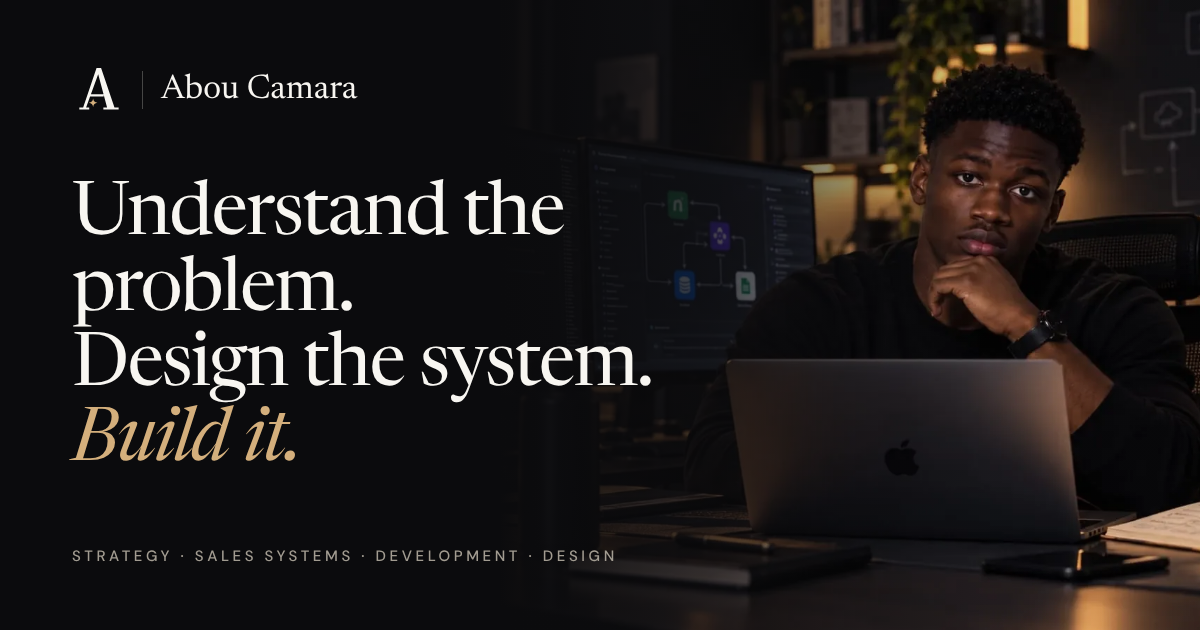
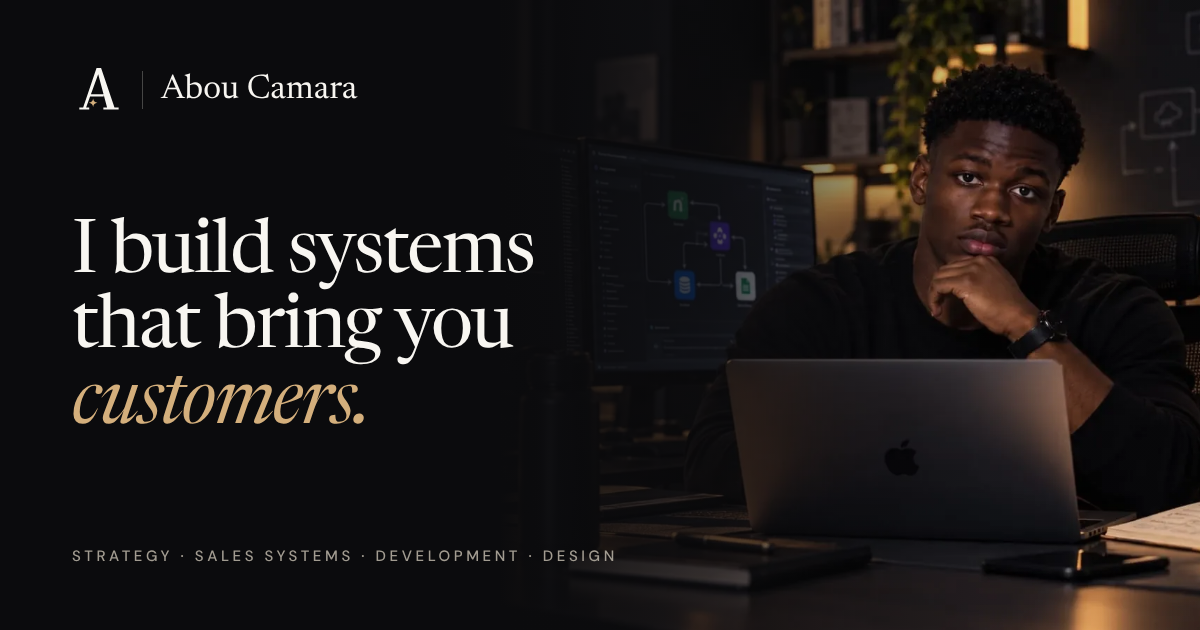
Sharpen positioning and apply review quick wins
- Hero: "I build systems that bring you customers", aimed at small
  businesses and online shops; services intro framed around that result
- Home: Olist removed from selected work (still on the projects page),
  certifications reduced to a one-line band, "still learning sales"
  sentence removed, footer tagline aligned with the hero
- Form: note that budgets in FCFA or MAD are welcome
- YEM'S: shown as built and launching soon; live-site links removed
- New Open Graph image with the new headline

Claude-Session: https://claude.ai/code/session_01TaKQq4ZKFStiEudSF5ioRm

Changed region(s): [[0.0617, 0.2714, 0.555, 0.754]]

diff --git a/index.html b/index.html
@@ -3,21 +3,21 @@
 <head>
 <meta charset="UTF-8">
 <meta name="viewport" content="width=device-width, initial-scale=1">
-<title>Abou Camara | Consultant, builder, developer</title>
-<meta name="description" content="I understand the problem, design the system and build it. Strategy, sales systems, development, automation and product design for founders and small teams.">
+<title>Abou Camara | Systems that bring you customers</title>
+<meta name="description" content="Consultant and developer for small businesses and online shops: a clear offer, a website that sells, and sales systems and automations that turn visitors into customers.">
 <link rel="canonical" href="https://aboucamara.org/">
 <meta property="og:type" content="website">
 <meta property="og:url" content="https://aboucamara.org/">
-<meta property="og:title" content="Abou Camara | Consultant, builder, developer">
-<meta property="og:description" content="I understand the problem, design the system and build it. Strategy, sales systems, development, automation and product design for founders and small teams.">
+<meta property="og:title" content="Abou Camara | Systems that bring you customers">
+<meta property="og:description" content="Consultant and developer for small businesses and online shops: a clear offer, a website that sells, and sales systems and automations that turn visitors into customers.">
 <meta property="og:image" content="https://aboucamara.org/og-image.png">
 <meta property="og:image:width" content="1200">
 <meta property="og:image:height" content="630">
 <meta property="og:locale" content="en_GB">
 <meta property="og:site_name" content="Abou Camara">
 <meta name="twitter:card" content="summary_large_image">
-<meta name="twitter:title" content="Abou Camara | Consultant, builder, developer">
-<meta name="twitter:description" content="I understand the problem, design the system and build it. Strategy, sales systems, development, automation and product design for founders and small teams.">
+<meta name="twitter:title" content="Abou Camara | Systems that bring you customers">
+<meta name="twitter:description" content="Consultant and developer for small businesses and online shops: a clear offer, a website that sells, and sales systems and automations that turn visitors into customers.">
 <meta name="twitter:image" content="https://aboucamara.org/og-image.png">
 <meta name="theme-color" content="#0B0B0D">
 <meta name="color-scheme" content="dark">
@@ -86,13 +86,12 @@
   </div>
   <div class="wrap hero-inner">
     <div class="hero-copy">
-      <p class="eyebrow fade-up">Independent consultant &amp; builder</p>
+      <p class="eyebrow fade-up">For small businesses &amp; online shops</p>
       <h1 class="display lines">
-        <span class="ln"><span>Understand the problem.</span></span>
-        <span class="ln"><span>Design the system.</span></span>
-        <span class="ln"><span><em>Build it.</em></span></span>
+        <span class="ln"><span>I build systems</span></span>
+        <span class="ln"><span>that bring you <em>customers.</em></span></span>
       </h1>
-      <p class="lead fade-up d1">I'm Abou, a consultant and developer based in Fès. I help founders and small teams work out what's holding them back, and then I build the fix myself: the website, the sales process, the automation, the interface.</p>
+      <p class="lead fade-up d1">I'm Abou, a consultant and developer. I help small businesses and online shops turn more visitors into customers: a clear offer, a website people understand, and automations that follow up every lead for you.</p>
       <div class="actions fade-up d2">
         <a href="#contact" class="btn btn-gold">Work together <svg class="arrow" viewBox="0 0 24 24" fill="none" stroke="currentColor" stroke-width="1.8" stroke-linecap="round" stroke-linejoin="round" aria-hidden="true"><path d="M5 12h14M13 6l6 6-6 6"/></svg></a>
         <a href="work.html" class="btn btn-ghost">See the projects</a>
@@ -110,7 +109,7 @@
         <p class="eyebrow rv">What I do</p>
         <h2 class="h2 rv">Four disciplines. <em>One system.</em></h2>
       </div>
-      <p class="lead rv">In small businesses, things tend to get stuck between people. The marketing plan never turns into a tool, or the website never gets connected to how sales happen. I work on all four parts, so I can see where those gaps are and close them myself.</p>
+      <p class="lead rv">More customers usually depends on four things working together: a clear offer, a site people understand, a way to follow up every lead, and tools that take care of the repetitive work. I handle all four, so nothing falls between them.</p>
     </div>
 
     <div class="thread rv" aria-hidden="true"><i></i><i></i><i></i><i></i></div>
@@ -177,7 +176,7 @@
         <p class="eyebrow rv">Selected work</p>
         <h2 class="h2 rv">What I&rsquo;ve <em>built so far.</em></h2>
       </div>
-      <p class="lead rv">Four projects, from a student guidance app to an online shop in Cotonou. Most are finished, one is still in progress, and each page tells you where it stands.</p>
+      <p class="lead rv">A student guidance app, an online shop and a lead scoring automation. Each page tells you what the problem was and where the project stands today.</p>
     </div>
 
     <div class="work-rows">
@@ -210,7 +209,6 @@
           <div class="chips"><span class="chip">HTML / CSS / JS</span><span class="chip">Python</span><span class="chip">Cloudflare Workers</span><span class="chip">PostgreSQL</span></div>
           <div class="work-links">
             <a class="link" href="project-yems.html">Case study <svg class="arrow" viewBox="0 0 24 24" fill="none" stroke="currentColor" stroke-width="1.8" stroke-linecap="round" stroke-linejoin="round" aria-hidden="true"><path d="M5 12h14M13 6l6 6-6 6"/></svg></a>
-            <a class="link" href="https://maisonyems.com" target="_blank" rel="noopener">Live site <svg class="out" viewBox="0 0 24 24" fill="none" stroke="currentColor" stroke-width="1.8" stroke-linecap="round" stroke-linejoin="round" aria-hidden="true"><path d="M7 17L17 7M8 7h9v9"/></svg></a>
             <a class="link" href="https://github.com/abou-arch/Site_ecommerce_Yem-s" target="_blank" rel="noopener">Source code <svg class="out" viewBox="0 0 24 24" fill="none" stroke="currentColor" stroke-width="1.8" stroke-linecap="round" stroke-linejoin="round" aria-hidden="true"><path d="M7 17L17 7M8 7h9v9"/></svg></a>
           </div>
         </div>
@@ -242,23 +240,6 @@
           </div>
         </div>
       </article>
-
-      <article class="work-row">
-        <a class="work-media rv" href="project-olist.html" tabindex="-1" aria-hidden="true">
-          <span class="badge"><i></i>In progress</span>
-          <img src="images/work/olist-1200.webp" srcset="images/work/olist-640.webp 640w, images/work/olist-1200.webp 1200w" sizes="(min-width: 960px) 720px, 100vw" alt="" width="1200" height="685" loading="lazy" decoding="async">
-        </a>
-        <div class="work-text rv">
-          <div class="meta"><span class="idx">04</span><span class="label">Data · Analysis</span></div>
-          <h3><a href="project-olist.html">Olist E-commerce Dashboard</a></h3>
-          <p class="sub">Analysis of the public Olist dataset</p>
-          <p>Still in progress: an analysis of sales, delivery times and customer reviews, to see where an online store loses money. I'll write it up once I'm confident in the numbers.</p>
-          <div class="chips"><span class="chip">Python</span><span class="chip">Pandas</span><span class="chip">SQL</span><span class="chip">Streamlit</span></div>
-          <div class="work-links">
-            <a class="link" href="project-olist.html">Project notes <svg class="arrow" viewBox="0 0 24 24" fill="none" stroke="currentColor" stroke-width="1.8" stroke-linecap="round" stroke-linejoin="round" aria-hidden="true"><path d="M5 12h14M13 6l6 6-6 6"/></svg></a>
-          </div>
-        </div>
-      </article>
     </div>
 
     <div style="margin-top:clamp(56px,7vw,88px);display:flex;justify-content:center" class="rv">
@@ -279,7 +260,7 @@
     <div class="about-txt">
       <p class="rv">I'm <strong>Abou Camara</strong>. I work on my own from Fès, Morocco, with founders and small teams in Europe and West Africa. If we work together, you deal with me directly, from the first call to the handover.</p>
       <p class="rv">I studied <strong>Big Data engineering</strong>, so I can build what I recommend. Over time I noticed that the code was rarely what held a project back. More often, the people who understood the customers and the people building the tools just weren't talking to each other.</p>
-      <p class="rv">So that's how I work. I write the positioning, design the funnel, code the automation behind it, and document it so you can run it without me. I'm also still learning the sales side properly, through a structured remote-sales and copywriting programme.</p>
+      <p class="rv">So that's how I work. I write the positioning, design the funnel, code the automation behind it, and document it so you can run it without me.</p>
       <p class="rv">What I want to build are systems a small business can run day to day, that don't promise more than they do, and that save people time.</p>
       <ul class="facts rv">
         <li><small>Based in</small><b>Fès, Morocco · remote-first</b></li>
@@ -312,23 +293,12 @@
 </section>
 
 <!-- ═════════ CERTIFICATIONS ═════════ -->
-<section id="credentials" style="padding-top:0">
-  <div class="wrap creds">
-    <div>
-      <p class="eyebrow rv">Proof of training</p>
-      <h2 class="h2 rv">Certifications.</h2>
-      <p class="lead rv">Programming, data analysis, software architecture and leadership. You can open each certificate as the original document, with its reference number.</p>
-      <a href="certificates.html" class="btn btn-ghost rv">View the certifications <svg class="arrow" viewBox="0 0 24 24" fill="none" stroke="currentColor" stroke-width="1.8" stroke-linecap="round" stroke-linejoin="round" aria-hidden="true"><path d="M5 12h14M13 6l6 6-6 6"/></svg></a>
+<section id="credentials" class="section-tight" style="padding-top:0">
+  <div class="wrap">
+    <div class="cred-band rv">
+      <p><span class="label">Training</span>Programming, data analysis, software architecture and leadership, with the original certificates.</p>
+      <a href="certificates.html" class="link">See the certifications <svg class="arrow" viewBox="0 0 24 24" fill="none" stroke="currentColor" stroke-width="1.8" stroke-linecap="round" stroke-linejoin="round" aria-hidden="true"><path d="M5 12h14M13 6l6 6-6 6"/></svg></a>
     </div>
-    <ul class="cred-list rv">
-      <li><b>Python for Data Analysis</b><span>OpenClassrooms</span></li>
-      <li><b>Domain-Driven Design</b><span>OpenClassrooms</span></li>
-      <li><b>Object-Oriented Programming with Python</b><span>OpenClassrooms</span></li>
-      <li><b>Python Fundamentals</b><span>OpenClassrooms</span></li>
-      <li><b>C++ Programming</b><span>OpenClassrooms</span></li>
-      <li><b>Leadership Development Experience</b><span>AIESEC</span></li>
-      <li><b>Global Volunteering Program</b><span>AIESEC</span></li>
-    </ul>
   </div>
 </section>
 
@@ -402,6 +372,7 @@
             <option>Over €10,000</option>
             <option selected>To define together</option>
           </select>
+          <small class="field-hint">In euros. Budgets in FCFA or MAD are welcome too.</small>
         </div>
       </div>
       <div class="field">
@@ -421,7 +392,7 @@
     <div class="foot">
       <div>
         <a href="#top" class="brand" aria-label="Abou Camara, home"><svg class="mark" viewBox="0 0 64 64" aria-hidden="true"><path fill="currentColor" d="M30.2 5L33 10.6L16.8 55H13.2ZM30.2 5H35.8L52.8 55H43.6ZM22.9 37.2H39V40H21.9ZM9 53.6H21.2V56H9ZM38.6 53.6H57.4V56H38.6Z"/><path class="star" d="M26 42.4Q26.6 47.1 31.3 47.7Q26.6 48.3 26 53Q25.4 48.3 20.7 47.7Q25.4 47.1 26 42.4Z"/></svg><span class="rule" aria-hidden="true"></span><span class="name">Abou Camara</span></a>
-        <p class="tagline">Build · Automate · Create</p>
+        <p class="tagline">Systems that bring you customers</p>
       </div>
       <nav class="foot-nav" aria-label="Footer">
         <a href="#services">Services</a>

diff --git a/project-yems.html b/project-yems.html
@@ -82,8 +82,8 @@
       <p class="standfirst rv">A shoe house in Cotonou, and an online shop <em>made for how people buy there.</em></p>
       <p class="lead rv">Yem's sells shoes and leather goods in Benin and Côte d'Ivoire. I designed and built the whole site: identity, copy, catalogue, a bespoke configurator, an ordering flow that takes no payment upfront, and an admin screen for the workshop.</p>
       <div class="actions rv">
-        <a href="https://maisonyems.com" target="_blank" rel="noopener" class="btn btn-gold">Visit maisonyems.com <svg class="out" viewBox="0 0 24 24" fill="none" stroke="currentColor" stroke-width="1.8" stroke-linecap="round" stroke-linejoin="round" aria-hidden="true"><path d="M7 17L17 7M8 7h9v9"/></svg></a>
-        <a href="https://github.com/abou-arch/Site_ecommerce_Yem-s" target="_blank" rel="noopener" class="btn btn-ghost">Source code <svg viewBox="0 0 24 24" fill="currentColor" aria-hidden="true"><path d="M12 2C6.48 2 2 6.48 2 12c0 4.42 2.87 8.17 6.84 9.5.5.09.68-.22.68-.48v-1.7c-2.78.6-3.37-1.34-3.37-1.34-.45-1.16-1.11-1.47-1.11-1.47-.91-.62.07-.6.07-.6 1 .07 1.53 1.03 1.53 1.03.9 1.53 2.34 1.09 2.91.83.09-.65.35-1.09.63-1.34-2.22-.25-4.55-1.11-4.55-4.94 0-1.09.39-1.98 1.03-2.68-.1-.25-.45-1.27.1-2.64 0 0 .84-.27 2.75 1.02a9.6 9.6 0 015 0c1.91-1.29 2.75-1.02 2.75-1.02.55 1.37.2 2.39.1 2.64.64.7 1.03 1.59 1.03 2.68 0 3.84-2.34 4.69-4.57 4.94.36.31.68.92.68 1.85v2.74c0 .27.18.58.69.48A10 10 0 0022 12c0-5.52-4.48-10-10-10z"/></svg></a>
+        <a href="https://github.com/abou-arch/Site_ecommerce_Yem-s" target="_blank" rel="noopener" class="btn btn-gold">Source code <svg viewBox="0 0 24 24" fill="currentColor" aria-hidden="true"><path d="M12 2C6.48 2 2 6.48 2 12c0 4.42 2.87 8.17 6.84 9.5.5.09.68-.22.68-.48v-1.7c-2.78.6-3.37-1.34-3.37-1.34-.45-1.16-1.11-1.47-1.11-1.47-.91-.62.07-.6.07-.6 1 .07 1.53 1.03 1.53 1.03.9 1.53 2.34 1.09 2.91.83.09-.65.35-1.09.63-1.34-2.22-.25-4.55-1.11-4.55-4.94 0-1.09.39-1.98 1.03-2.68-.1-.25-.45-1.27.1-2.64 0 0 .84-.27 2.75 1.02a9.6 9.6 0 015 0c1.91-1.29 2.75-1.02 2.75-1.02.55 1.37.2 2.39.1 2.64.64.7 1.03 1.59 1.03 2.68 0 3.84-2.34 4.69-4.57 4.94.36.31.68.92.68 1.85v2.74c0 .27.18.58.69.48A10 10 0 0022 12c0-5.52-4.48-10-10-10z"/></svg></a>
+        <a href="#visuals" class="btn btn-ghost">See the screens</a>
       </div>
     </div>
     <figure class="shot rv">
@@ -158,8 +158,8 @@
       <div class="chapter rv">
         <p class="ch-label"><span>05</span>Real outcome</p>
         <div>
-          <h2>What exists today.</h2>
-          <p>The site is live at <a href="https://maisonyems.com" target="_blank" rel="noopener" style="color:var(--gold);border-bottom:1px solid rgba(212,175,124,.4)">maisonyems.com</a>: a complete, documented e-commerce site with 23 generated pages, a working configurator, an ordering flow, an admin, legal pages, and a step-by-step deployment guide written for the owner.</p>
+          <h2>Where it stands.</h2>
+          <p>The site is built and documented, and the shop hasn't launched yet. It has 23 generated pages, a working configurator, an ordering flow, an admin, legal pages, and a step-by-step deployment guide written for the owner.</p>
           <p class="honest"><b>What I can't show you.</b> I don't have visit or sales figures to share: the site runs no analytics, on purpose, and online payment isn't switched on yet. The product photos on the shop are AI-generated, and the site says so.</p>
         </div>
       </div>
@@ -193,8 +193,8 @@
         <div><dt>Role</dt><dd>Brand, copywriting, design, front-end and back-end development</dd></div>
         <div><dt>Technologies</dt><dd><div class="chips"><span class="chip">HTML</span><span class="chip">CSS</span><span class="chip">JavaScript</span><span class="chip">Python</span><span class="chip">Cloudflare Workers</span><span class="chip">PostgreSQL</span></div></dd></div>
         <div><dt>Market</dt><dd>Benin and Côte d'Ivoire</dd></div>
-        <div><dt>Status</dt><dd>Live · online payment not switched on yet</dd></div>
-        <div><dt>Links</dt><dd><a href="https://maisonyems.com" target="_blank" rel="noopener">maisonyems.com</a> · <a href="https://github.com/abou-arch/Site_ecommerce_Yem-s" target="_blank" rel="noopener">Source code</a></dd></div>
+        <div><dt>Status</dt><dd>Built · launching soon</dd></div>
+        <div><dt>Source</dt><dd><a href="https://github.com/abou-arch/Site_ecommerce_Yem-s" target="_blank" rel="noopener">Source code on GitHub</a></dd></div>
       </dl>
     </aside>
   </div>
@@ -221,7 +221,7 @@
     <div class="foot">
       <div>
         <a href="index.html" class="brand" aria-label="Abou Camara, home"><svg class="mark" viewBox="0 0 64 64" aria-hidden="true"><path fill="currentColor" d="M30.2 5L33 10.6L16.8 55H13.2ZM30.2 5H35.8L52.8 55H43.6ZM22.9 37.2H39V40H21.9ZM9 53.6H21.2V56H9ZM38.6 53.6H57.4V56H38.6Z"/><path class="star" d="M26 42.4Q26.6 47.1 31.3 47.7Q26.6 48.3 26 53Q25.4 48.3 20.7 47.7Q25.4 47.1 26 42.4Z"/></svg><span class="rule" aria-hidden="true"></span><span class="name">Abou Camara</span></a>
-        <p class="tagline">Build · Automate · Create</p>
+        <p class="tagline">Systems that bring you customers</p>
       </div>
       <nav class="foot-nav" aria-label="Footer">
         <a href="index.html#services">Services</a>

diff --git a/work.html b/work.html
@@ -122,12 +122,11 @@
         <div class="wcard-body">
           <p class="label" style="margin-bottom:12px">E-commerce · Brand · Full-stack</p>
           <h2><a href="project-yems.html">YEM&rsquo;S <svg class="out" viewBox="0 0 24 24" fill="none" stroke="currentColor" stroke-width="1.8" stroke-linecap="round" stroke-linejoin="round" aria-hidden="true"><path d="M7 17L17 7M8 7h9v9"/></svg></a></h2>
-          <p class="sub">Shoe and leather-goods house, Cotonou · live</p>
+          <p class="sub">Shoe and leather-goods house, Cotonou · launching soon</p>
           <p>An online shop built from scratch, with a made-to-measure configurator, a pay-on-delivery checkout and an admin screen for the workshop.</p>
           <div class="chips"><span class="chip">HTML / CSS / JS</span><span class="chip">Python</span><span class="chip">Cloudflare Workers</span><span class="chip">PostgreSQL</span></div>
           <div class="work-links">
             <a class="link" href="project-yems.html">Case study <svg class="arrow" viewBox="0 0 24 24" fill="none" stroke="currentColor" stroke-width="1.8" stroke-linecap="round" stroke-linejoin="round" aria-hidden="true"><path d="M5 12h14M13 6l6 6-6 6"/></svg></a>
-            <a class="link" href="https://maisonyems.com" target="_blank" rel="noopener">Live site <svg class="out" viewBox="0 0 24 24" fill="none" stroke="currentColor" stroke-width="1.8" stroke-linecap="round" stroke-linejoin="round" aria-hidden="true"><path d="M7 17L17 7M8 7h9v9"/></svg></a>
             <a class="link" href="https://github.com/abou-arch/Site_ecommerce_Yem-s" target="_blank" rel="noopener">Source code <svg class="out" viewBox="0 0 24 24" fill="none" stroke="currentColor" stroke-width="1.8" stroke-linecap="round" stroke-linejoin="round" aria-hidden="true"><path d="M7 17L17 7M8 7h9v9"/></svg></a>
           </div>
         </div>
@@ -202,7 +201,7 @@
     <div class="foot">
       <div>
         <a href="index.html" class="brand" aria-label="Abou Camara, home"><svg class="mark" viewBox="0 0 64 64" aria-hidden="true"><path fill="currentColor" d="M30.2 5L33 10.6L16.8 55H13.2ZM30.2 5H35.8L52.8 55H43.6ZM22.9 37.2H39V40H21.9ZM9 53.6H21.2V56H9ZM38.6 53.6H57.4V56H38.6Z"/><path class="star" d="M26 42.4Q26.6 47.1 31.3 47.7Q26.6 48.3 26 53Q25.4 48.3 20.7 47.7Q25.4 47.1 26 42.4Z"/></svg><span class="rule" aria-hidden="true"></span><span class="name">Abou Camara</span></a>
-        <p class="tagline">Build · Automate · Create</p>
+        <p class="tagline">Systems that bring you customers</p>
       </div>
       <nav class="foot-nav" aria-label="Footer">
         <a href="index.html#services">Services</a>

diff --git a/style.css b/style.css
@@ -467,6 +467,10 @@ body.locked{overflow:hidden}
 .cred-list b{font-weight:400;font-family:var(--serif);font-size:1.15rem;color:var(--ink)}
 .cred-list span{font-size:.75rem;letter-spacing:.14em;text-transform:uppercase;color:var(--muted);white-space:nowrap}
 
+.cred-band{display:flex;flex-wrap:wrap;align-items:center;justify-content:space-between;gap:16px 32px;padding:24px 0;border-top:1px solid var(--line);border-bottom:1px solid var(--line)}
+.cred-band p{display:flex;flex-wrap:wrap;align-items:baseline;gap:6px 18px;color:var(--ink-2);font-size:1rem;max-width:70ch}
+.field-hint{font-size:.78rem;color:var(--muted)}
+
 /* ─── contact ───────────────────────────────────────────────────────── */
 .contact-grid{display:grid;gap:clamp(40px,6vw,80px);align-items:start}
 @media (min-width:980px){.contact-grid{grid-template-columns:minmax(0,1fr) minmax(0,1fr)}}
@@ -489,7 +493,7 @@ form.cf{background:var(--surface);border:1px solid var(--line);border-radius:var
 .cf h3{font-size:1.6rem;margin-bottom:6px}
 .cf > p{color:var(--muted);font-size:.93rem;margin-bottom:26px}
 .field{display:grid;gap:8px;margin-bottom:18px}
-.field-row{display:grid;gap:0 16px}
+.field-row{display:grid;gap:0 16px;align-items:start}
 @media (min-width:560px){.field-row{grid-template-columns:1fr 1fr}}
 .field label{font-size:.8rem;letter-spacing:.06em;color:var(--ink-2)}
 .field input,.field select,.field textarea{

diff --git a/case-lead-scoring.html b/case-lead-scoring.html
@@ -250,7 +250,7 @@ hot ≥ 80 · warm 40–79 · low &lt; 40</code></pre>
     <div class="foot">
       <div>
         <a href="index.html" class="brand" aria-label="Abou Camara, home"><svg class="mark" viewBox="0 0 64 64" aria-hidden="true"><path fill="currentColor" d="M30.2 5L33 10.6L16.8 55H13.2ZM30.2 5H35.8L52.8 55H43.6ZM22.9 37.2H39V40H21.9ZM9 53.6H21.2V56H9ZM38.6 53.6H57.4V56H38.6Z"/><path class="star" d="M26 42.4Q26.6 47.1 31.3 47.7Q26.6 48.3 26 53Q25.4 48.3 20.7 47.7Q25.4 47.1 26 42.4Z"/></svg><span class="rule" aria-hidden="true"></span><span class="name">Abou Camara</span></a>
-        <p class="tagline">Build · Automate · Create</p>
+        <p class="tagline">Systems that bring you customers</p>
       </div>
       <nav class="foot-nav" aria-label="Footer">
         <a href="index.html#services">Services</a>

diff --git a/404.html b/404.html
@@ -92,7 +92,7 @@
     <div class="foot">
       <div>
         <a href="/index.html" class="brand" aria-label="Abou Camara, home"><svg class="mark" viewBox="0 0 64 64" aria-hidden="true"><path fill="currentColor" d="M30.2 5L33 10.6L16.8 55H13.2ZM30.2 5H35.8L52.8 55H43.6ZM22.9 37.2H39V40H21.9ZM9 53.6H21.2V56H9ZM38.6 53.6H57.4V56H38.6Z"/><path class="star" d="M26 42.4Q26.6 47.1 31.3 47.7Q26.6 48.3 26 53Q25.4 48.3 20.7 47.7Q25.4 47.1 26 42.4Z"/></svg><span class="rule" aria-hidden="true"></span><span class="name">Abou Camara</span></a>
-        <p class="tagline">Build · Automate · Create</p>
+        <p class="tagline">Systems that bring you customers</p>
       </div>
       <nav class="foot-nav" aria-label="Footer">
         <a href="/index.html#services">Services</a>

diff --git a/certificates.html b/certificates.html
@@ -251,7 +251,7 @@
     <div class="foot">
       <div>
         <a href="index.html" class="brand" aria-label="Abou Camara, home"><svg class="mark" viewBox="0 0 64 64" aria-hidden="true"><path fill="currentColor" d="M30.2 5L33 10.6L16.8 55H13.2ZM30.2 5H35.8L52.8 55H43.6ZM22.9 37.2H39V40H21.9ZM9 53.6H21.2V56H9ZM38.6 53.6H57.4V56H38.6Z"/><path class="star" d="M26 42.4Q26.6 47.1 31.3 47.7Q26.6 48.3 26 53Q25.4 48.3 20.7 47.7Q25.4 47.1 26 42.4Z"/></svg><span class="rule" aria-hidden="true"></span><span class="name">Abou Camara</span></a>
-        <p class="tagline">Build · Automate · Create</p>
+        <p class="tagline">Systems that bring you customers</p>
       </div>
       <nav class="foot-nav" aria-label="Footer">
         <a href="index.html#services">Services</a>

diff --git a/project-eidia.html b/project-eidia.html
@@ -209,7 +209,7 @@
     <div class="foot">
       <div>
         <a href="index.html" class="brand" aria-label="Abou Camara, home"><svg class="mark" viewBox="0 0 64 64" aria-hidden="true"><path fill="currentColor" d="M30.2 5L33 10.6L16.8 55H13.2ZM30.2 5H35.8L52.8 55H43.6ZM22.9 37.2H39V40H21.9ZM9 53.6H21.2V56H9ZM38.6 53.6H57.4V56H38.6Z"/><path class="star" d="M26 42.4Q26.6 47.1 31.3 47.7Q26.6 48.3 26 53Q25.4 48.3 20.7 47.7Q25.4 47.1 26 42.4Z"/></svg><span class="rule" aria-hidden="true"></span><span class="name">Abou Camara</span></a>
-        <p class="tagline">Build · Automate · Create</p>
+        <p class="tagline">Systems that bring you customers</p>
       </div>
       <nav class="foot-nav" aria-label="Footer">
         <a href="index.html#services">Services</a>

diff --git a/project-olist.html b/project-olist.html
@@ -201,7 +201,7 @@
     <div class="foot">
       <div>
         <a href="index.html" class="brand" aria-label="Abou Camara, home"><svg class="mark" viewBox="0 0 64 64" aria-hidden="true"><path fill="currentColor" d="M30.2 5L33 10.6L16.8 55H13.2ZM30.2 5H35.8L52.8 55H43.6ZM22.9 37.2H39V40H21.9ZM9 53.6H21.2V56H9ZM38.6 53.6H57.4V56H38.6Z"/><path class="star" d="M26 42.4Q26.6 47.1 31.3 47.7Q26.6 48.3 26 53Q25.4 48.3 20.7 47.7Q25.4 47.1 26 42.4Z"/></svg><span class="rule" aria-hidden="true"></span><span class="name">Abou Camara</span></a>
-        <p class="tagline">Build · Automate · Create</p>
+        <p class="tagline">Systems that bring you customers</p>
       </div>
       <nav class="foot-nav" aria-label="Footer">
         <a href="index.html#services">Services</a>

diff --git a/resources.html b/resources.html
@@ -168,7 +168,7 @@
     <div class="foot">
       <div>
         <a href="index.html" class="brand" aria-label="Abou Camara, home"><svg class="mark" viewBox="0 0 64 64" aria-hidden="true"><path fill="currentColor" d="M30.2 5L33 10.6L16.8 55H13.2ZM30.2 5H35.8L52.8 55H43.6ZM22.9 37.2H39V40H21.9ZM9 53.6H21.2V56H9ZM38.6 53.6H57.4V56H38.6Z"/><path class="star" d="M26 42.4Q26.6 47.1 31.3 47.7Q26.6 48.3 26 53Q25.4 48.3 20.7 47.7Q25.4 47.1 26 42.4Z"/></svg><span class="rule" aria-hidden="true"></span><span class="name">Abou Camara</span></a>
-        <p class="tagline">Build · Automate · Create</p>
+        <p class="tagline">Systems that bring you customers</p>
       </div>
       <nav class="foot-nav" aria-label="Footer">
         <a href="index.html#services">Services</a>

diff --git a/service-development.html b/service-development.html
@@ -206,7 +206,7 @@
     <div class="foot">
       <div>
         <a href="index.html" class="brand" aria-label="Abou Camara, home"><svg class="mark" viewBox="0 0 64 64" aria-hidden="true"><path fill="currentColor" d="M30.2 5L33 10.6L16.8 55H13.2ZM30.2 5H35.8L52.8 55H43.6ZM22.9 37.2H39V40H21.9ZM9 53.6H21.2V56H9ZM38.6 53.6H57.4V56H38.6Z"/><path class="star" d="M26 42.4Q26.6 47.1 31.3 47.7Q26.6 48.3 26 53Q25.4 48.3 20.7 47.7Q25.4 47.1 26 42.4Z"/></svg><span class="rule" aria-hidden="true"></span><span class="name">Abou Camara</span></a>
-        <p class="tagline">Build · Automate · Create</p>
+        <p class="tagline">Systems that bring you customers</p>
       </div>
       <nav class="foot-nav" aria-label="Footer">
         <a href="index.html#services">Services</a>

diff --git a/service-product-design.html b/service-product-design.html
@@ -183,7 +183,7 @@
     <div class="foot">
       <div>
         <a href="index.html" class="brand" aria-label="Abou Camara, home"><svg class="mark" viewBox="0 0 64 64" aria-hidden="true"><path fill="currentColor" d="M30.2 5L33 10.6L16.8 55H13.2ZM30.2 5H35.8L52.8 55H43.6ZM22.9 37.2H39V40H21.9ZM9 53.6H21.2V56H9ZM38.6 53.6H57.4V56H38.6Z"/><path class="star" d="M26 42.4Q26.6 47.1 31.3 47.7Q26.6 48.3 26 53Q25.4 48.3 20.7 47.7Q25.4 47.1 26 42.4Z"/></svg><span class="rule" aria-hidden="true"></span><span class="name">Abou Camara</span></a>
-        <p class="tagline">Build · Automate · Create</p>
+        <p class="tagline">Systems that bring you customers</p>
       </div>
       <nav class="foot-nav" aria-label="Footer">
         <a href="index.html#services">Services</a>
